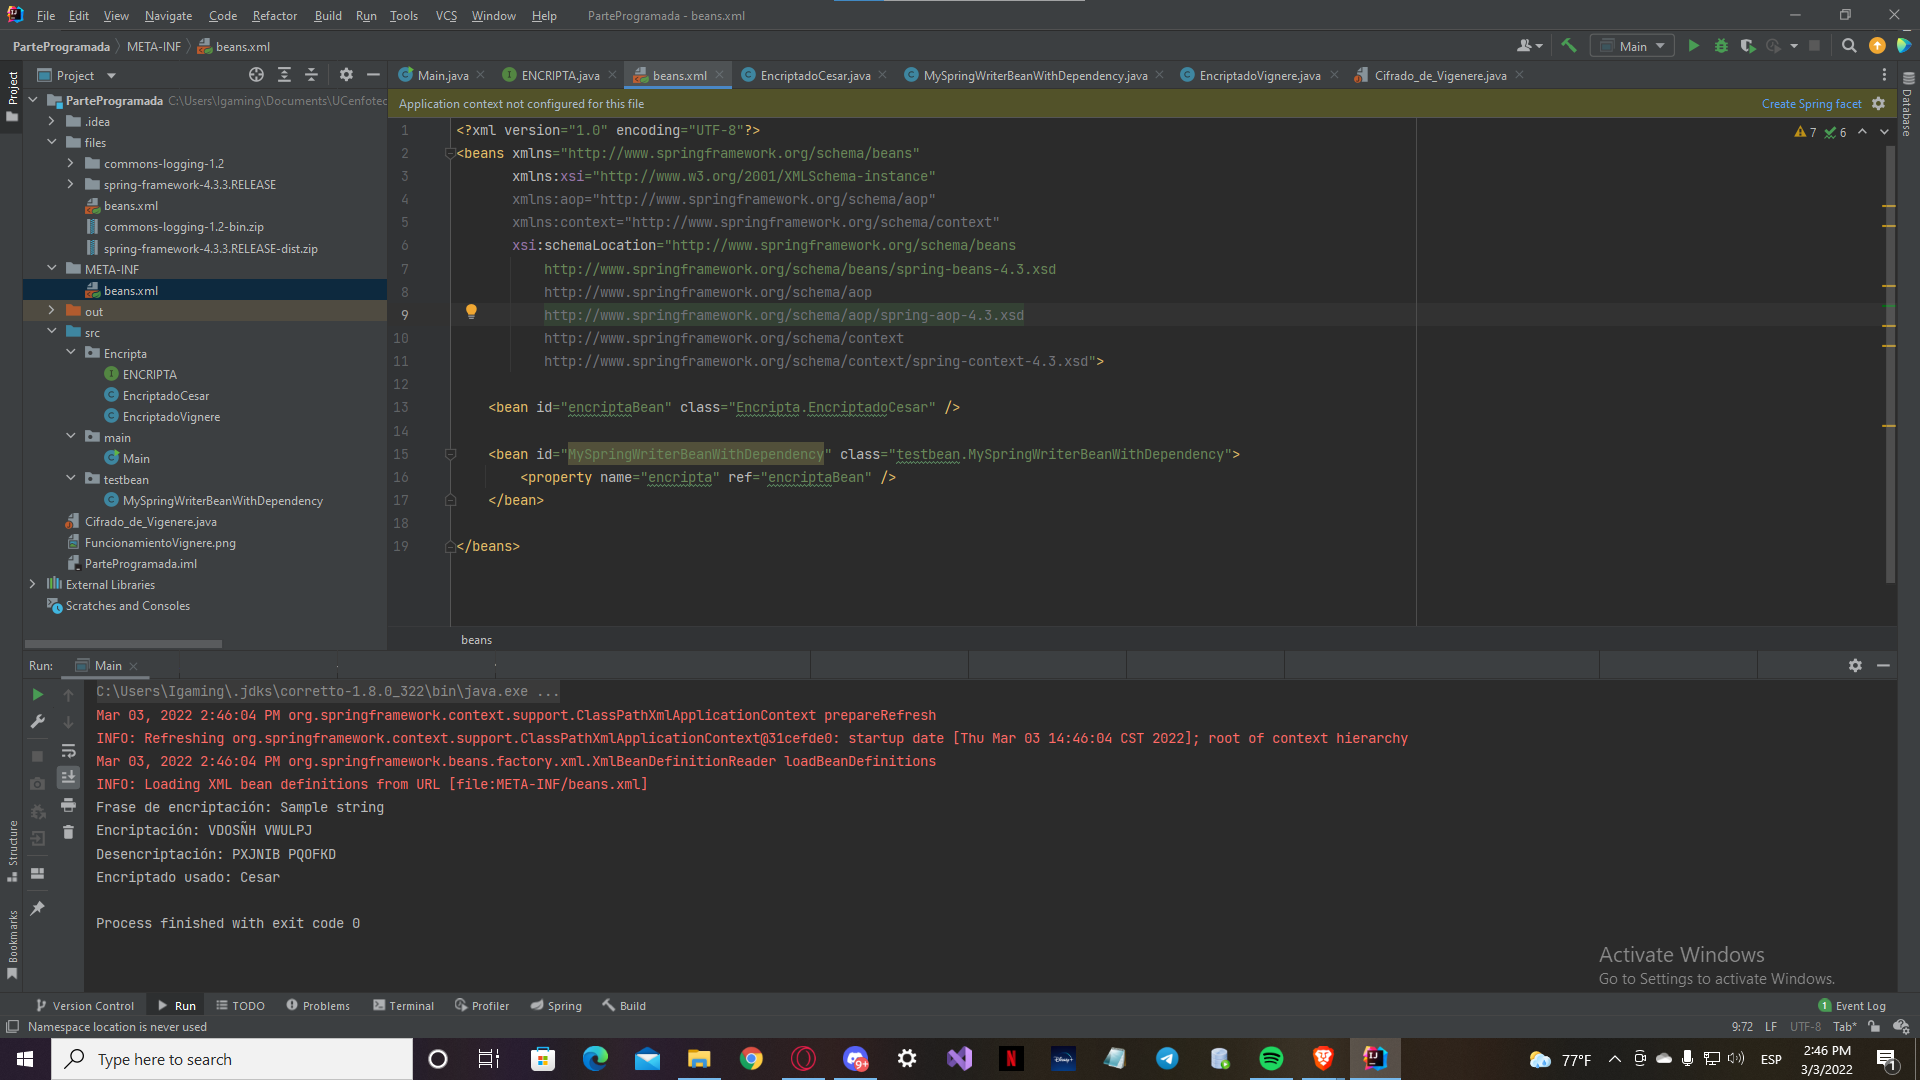
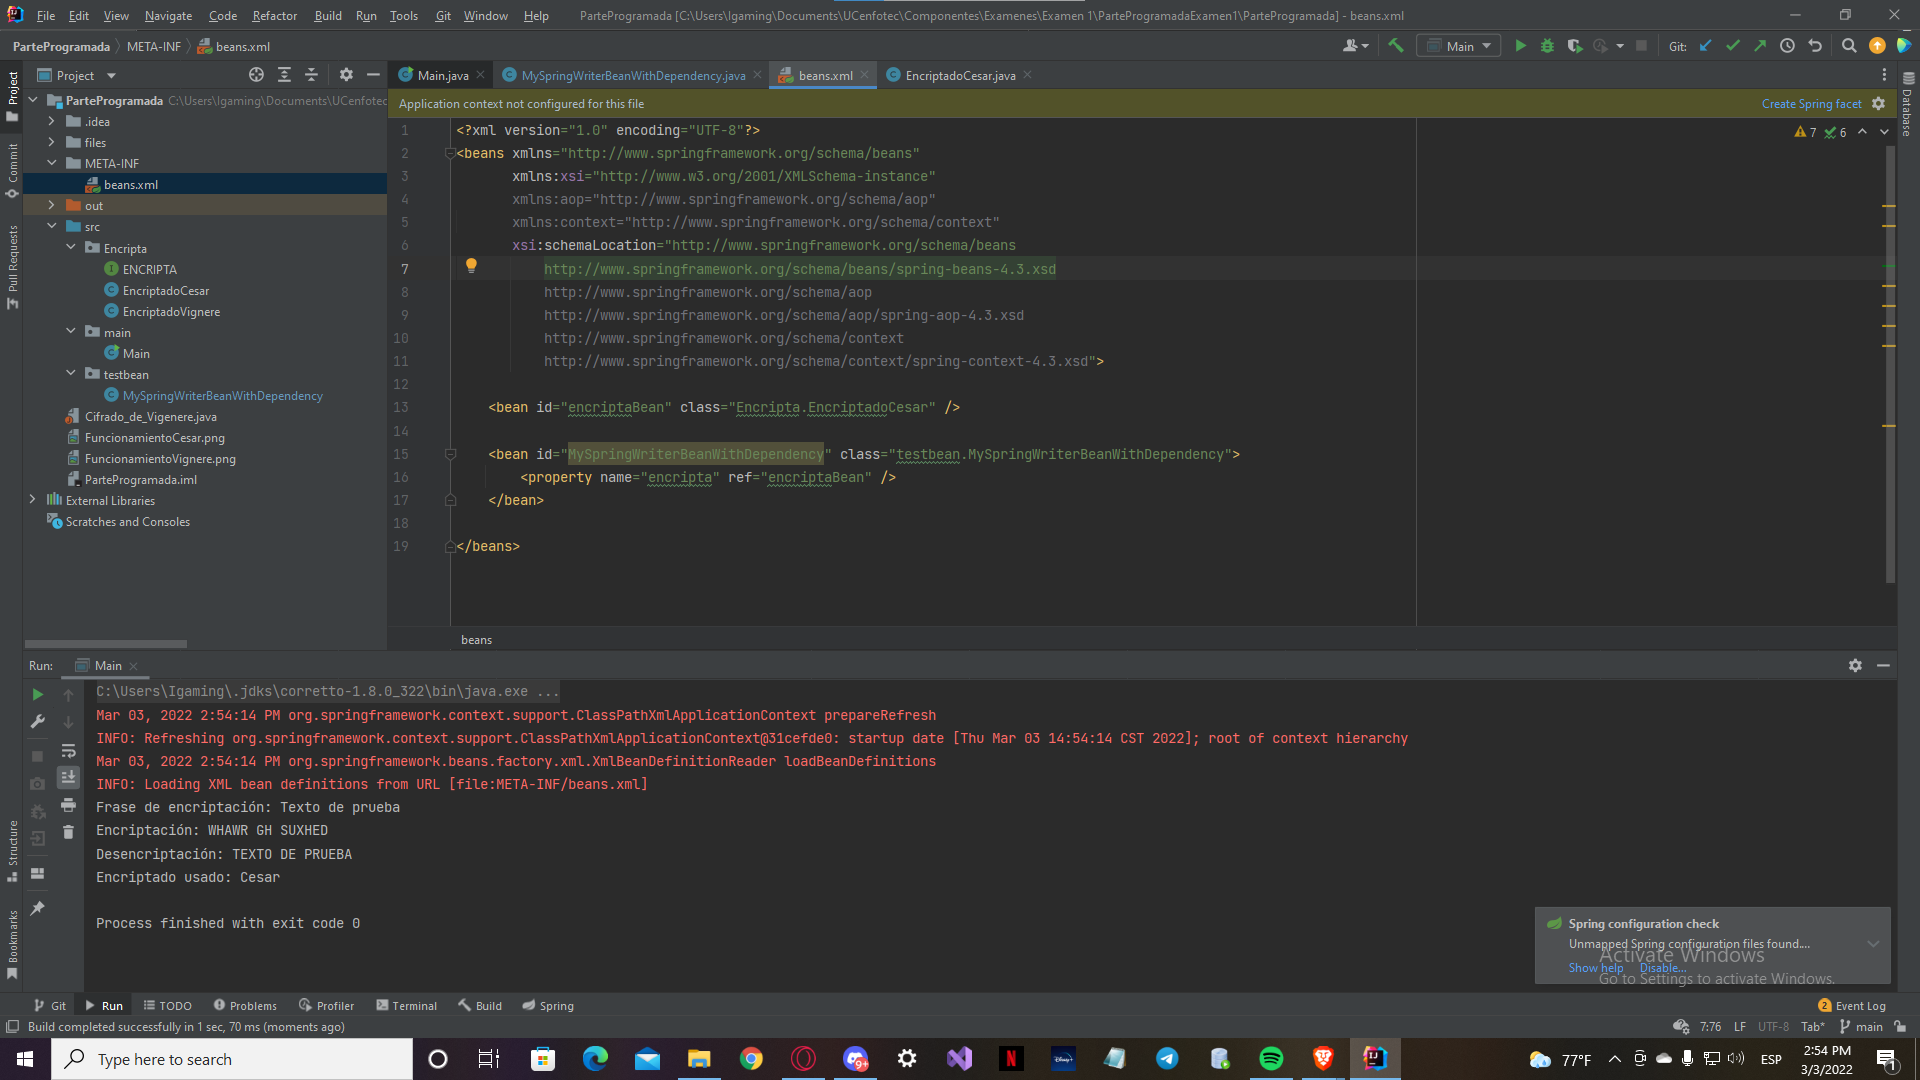
Cambios en las pruebas

diff --git a/ParteProgramada/src/testbean/MySpringWriterBeanWithDependency.java b/ParteProgramada/src/testbean/MySpringWriterBeanWithDependency.java
@@ -10,10 +10,13 @@ public class MySpringWriterBeanWithDependency {
         this.encripta = pencripta;
     }
     public void run(){
-        String s = "Sample string";
+        String s = "Texto de prueba";
         System.out.println("Frase de encriptación: "+s);
-        System.out.println("Encriptación: "+encripta.encripta(s));
-        System.out.println("Desencriptación: "+encripta.desencripta(s));
-        System.out.println("Encriptado usado: Cesar");
+
+        String fraseEncriptada = encripta.encripta(s);
+        System.out.println("Encriptación: "+fraseEncriptada);
+        String fraseDesecrinptada = encripta.desencripta(fraseEncriptada);
+        System.out.println("Desencriptación: "+fraseDesecrinptada);
+        System.out.println("Encriptado usado: Vignere");
     }
 }
